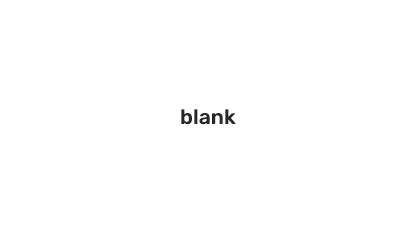
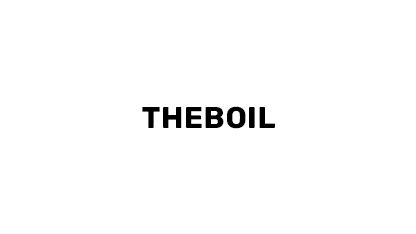
v4

Changed region(s): [[0.3438, 0.4487, 0.6562, 0.5684]]

diff --git a/index.html b/index.html
@@ -249,17 +249,17 @@
       <div class="row">
         <div class="col-md-6 col-lg-4">
           <div class="portfolio-item">
-            <a href="https://www.behance.net/gallery/136384697/Logofolio" target="_blank"> <img src="img/portfolio/1.png" class="w-100 img-thumbnail shadow-sm mb-5" alt="portfolio item"> </a>
+            <a href="https://www.behance.net/gallery/136384697/Logofolio" target="_blank"> <img src="img/portfolio/1.jpg" class="w-100 img-thumbnail shadow-sm mb-5" alt="portfolio item"> </a>
           </div>
         </div>
         <div class="col-md-6 col-lg-4">
           <div class="portfolio-item">
-            <a href="https://www.behance.net/gallery/136049965/Youth-Hallelujah-2020-Live" target="_blank"> <img src="img/portfolio/2.png" class="w-100 img-thumbnail shadow-sm mb-5" alt="portfolio item"> </a>
+            <a href="https://www.behance.net/gallery/136049965/Youth-Hallelujah-2020-Live" target="_blank"> <img src="img/portfolio/2.jpg" class="w-100 img-thumbnail shadow-sm mb-5" alt="portfolio item"> </a>
           </div>
         </div>
         <div class="col-md-6 col-lg-4">
           <div class="portfolio-item">
-            <a href="" target="_blank" onclick="return false;"> <img src="img/portfolio/3.jpg" class="w-100 img-thumbnail shadow-sm mb-5" alt="portfolio item"> </a>
+            <a href="https://www.theboilny.com/" target="_blank"> <img src="img/portfolio/3.jpg" class="w-100 img-thumbnail shadow-sm mb-5" alt="portfolio item"> </a>
           </div>
         </div>
         <div class="col-md-6 col-lg-4">
